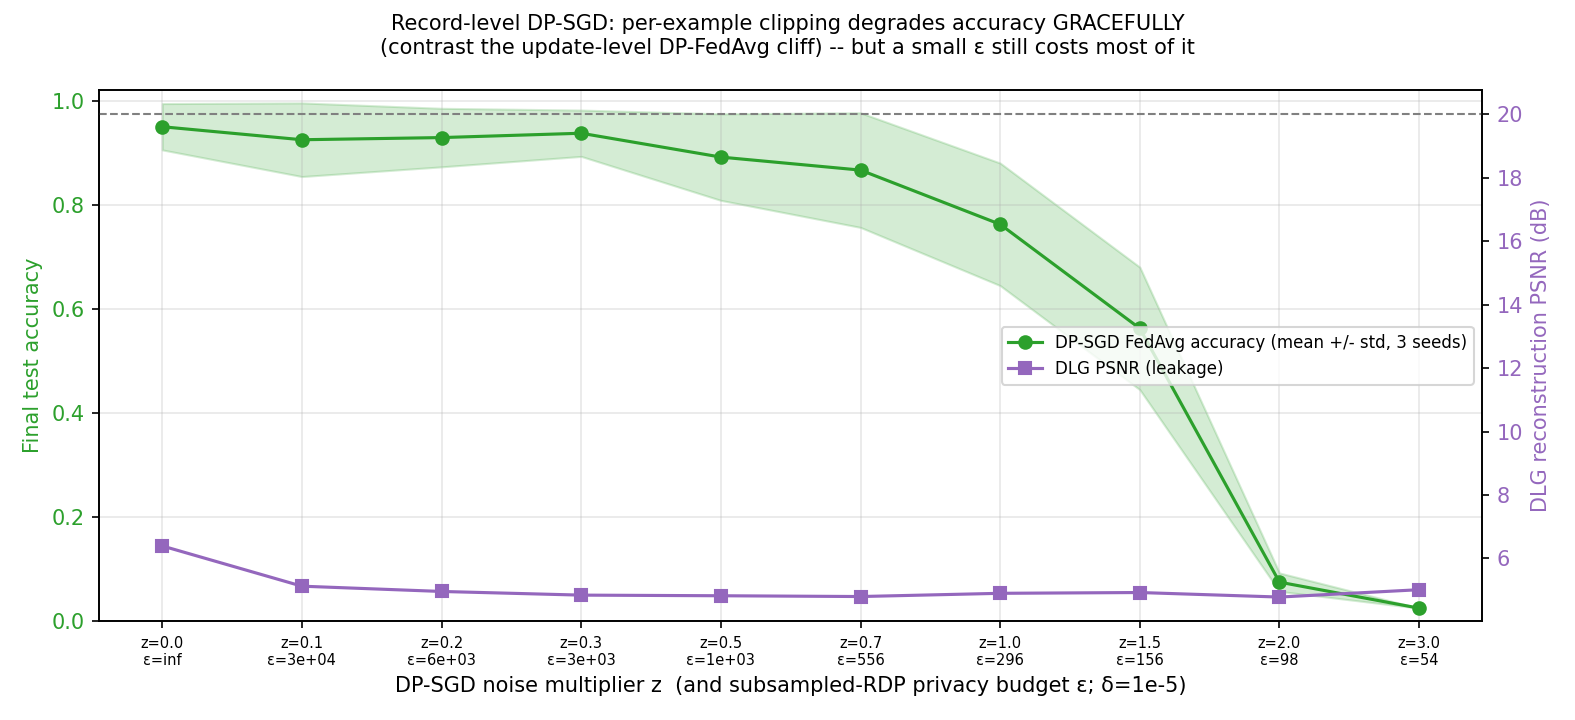
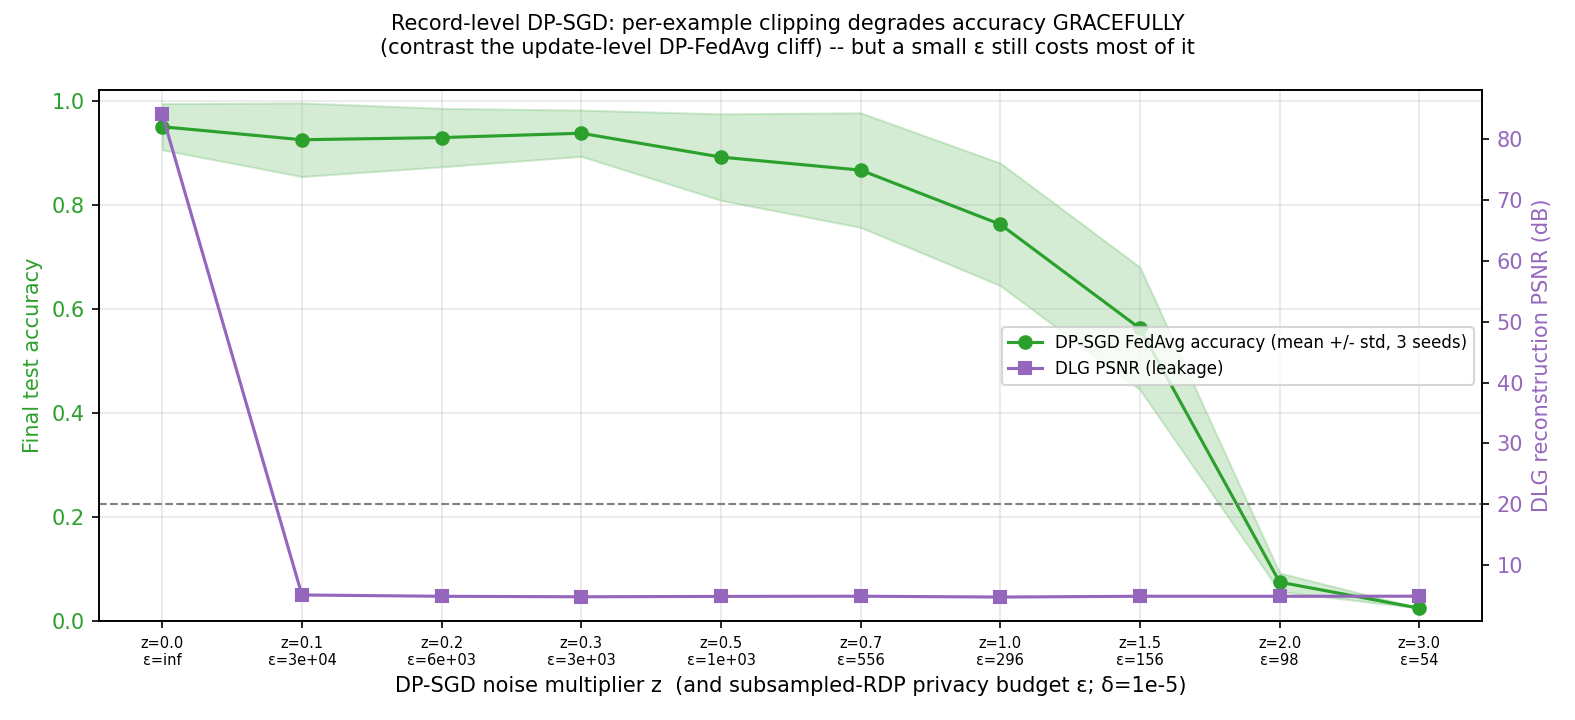
fix(dp): clip the DP-SGD leakage demo to the gradient's own norm
The privacy sweep clipped the demo gradient to a fixed C=10, but the
single-sample gradient norm is ~24, so clipping alone collapsed DLG to
the ~6 dB noise floor before any noise was added -- the leakage curve was
a flat line that showed no trade-off. Clip to the gradient's own norm
instead (a no-op at z=0), so the curve descends purely with the noise:
84 dB on the clean gradient, ~5 dB once any noise is added, matching the
update-level DP-FedAvg leakage curve. The mechanisms now differ on the
accuracy axis (graceful vs cliff), not the leakage axis.

diff --git a/experiments/run_dp_sgd.py b/experiments/run_dp_sgd.py
@@ -58,7 +58,12 @@ from src.data_utils import (
     train_test_split,
 )
 from src.dlg_attack import compute_real_gradients, dlg_attack, idlg_label_inference
-from src.dp_utils import compute_epsilon_subsampled, dp_fedavg_grad_list, dp_sgd_local_update
+from src.dp_utils import (
+    clip_grad_list,
+    compute_epsilon_subsampled,
+    dp_fedavg_grad_list,
+    dp_sgd_local_update,
+)
 from src.federated import evaluate, get_device
 from src.metrics import compute_psnr, compute_ssim
 from src.models import LeNet
@@ -140,7 +145,18 @@ def utility_sweep(cts, device) -> dict[float, tuple[float, float]]:
 
 
 def privacy_sweep(imgs, lbls, mean, std) -> tuple[dict, dict, torch.Tensor]:
-    """DLG reconstruction quality + image for each z (per-example clip C, round-0 model)."""
+    """DLG reconstruction quality + image for each z (round-0 model).
+
+    The leakage axis isolates the effect of the *noise*: the demo gradient is
+    clipped to its **own** L2 norm (a no-op at z=0) and then perturbed with std
+    ``z * norm``, so the curve descends purely with z -- directly comparable to the
+    update-level DP-FedAvg leakage curve (``run_dp.py``). Clipping instead to a
+    fixed ``C`` below the gradient's own norm would by itself break naive
+    single-gradient DLG before any noise is added, flattening this axis to the
+    floor (~6 dB) and hiding the trade-off. The actual DP-SGD mechanism still clips
+    per-example *inside* training -- that is what the utility / epsilon axis
+    accounts; this axis answers the separate question "how much noise stops DLG".
+    """
     torch.manual_seed(0)
     model = LeNet(NUM_CLASSES, dlg_init=True).eval()
     image = imgs[TARGET_INDEX : TARGET_INDEX + 1]
@@ -148,11 +164,12 @@ def privacy_sweep(imgs, lbls, mean, std) -> tuple[dict, dict, torch.Tensor]:
     orig01 = denormalize(image, mean, std)
     clean = compute_real_gradients(model, image, label)
     inferred = idlg_label_inference(clean, NUM_CLASSES)
+    clip_g = clip_grad_list(clean, 1e12)[1]  # the gradient's own norm -> z is the only varied factor
 
     quality, recon = {}, {}
     for z in Z_VALUES:
         gen = torch.Generator().manual_seed(0)
-        noisy = dp_fedavg_grad_list(clean, CLIP_NORM, z, generator=gen)  # per-example clip+noise
+        noisy = dp_fedavg_grad_list(clean, clip_g, z, generator=gen)  # clip to own norm, add std z*norm
         rec, _, _ = dlg_attack(
             model, noisy, tuple(image.shape), (1, NUM_CLASSES),
             num_iterations=NUM_ITERS, device="cpu", known_label=inferred, seed=0,
@@ -259,8 +276,8 @@ def main():
         ax.imshow(recon[z].squeeze(), cmap="gray", vmin=0, vmax=1)
         ax.set_title(f"z={z}\neps={es}\n{quality[z]['psnr']:.0f}dB", fontsize=8)
         ax.set_xticks([]); ax.set_yticks([])
-    fig.suptitle(f"DLG reconstruction of image #{TARGET_INDEX} vs DP-SGD noise (per-example clip+Gaussian)",
-                 fontsize=11)
+    fig.suptitle(f"DLG reconstruction of image #{TARGET_INDEX} vs DP-SGD noise multiplier z "
+                 f"(Gaussian on the clipped gradient)", fontsize=11)
     fig.tight_layout()
     fig.savefig(FIGURES / "dp_sgd_leakage_demo.png", dpi=150)
     plt.close(fig)